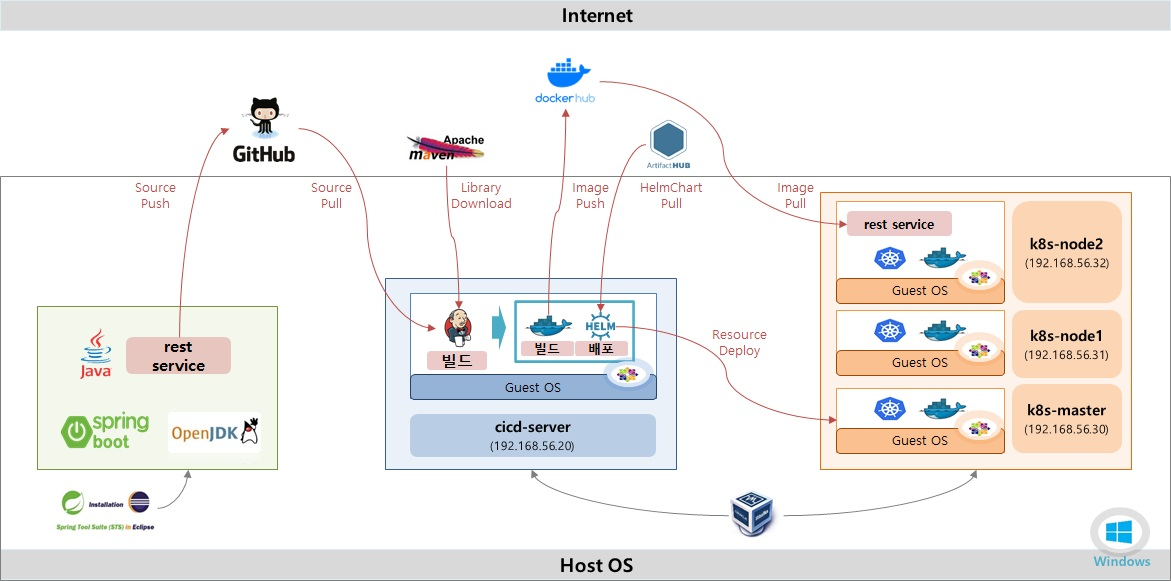
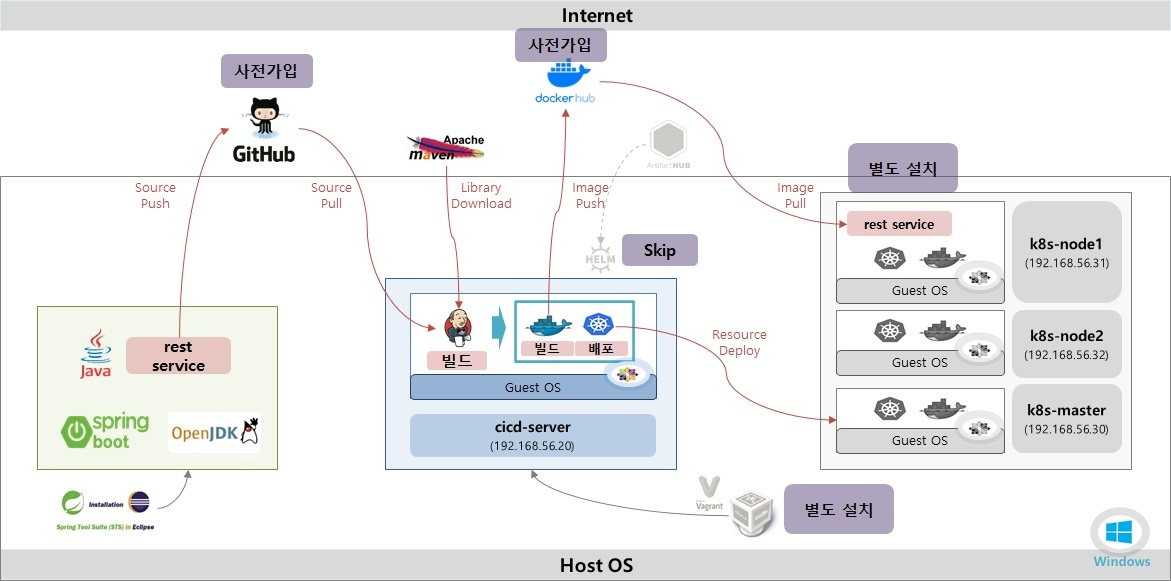
1

diff --git a/helm/11-deploy/developenv/index.html b/helm/11-deploy/developenv/index.html
@@ -30,7 +30,7 @@
 <meta itemprop="description" content="이클립스로 개발환경을 세팅하고 Github로 소스를 Push하는 내용을 다룹니다.
 "><meta itemprop="datePublished" content="2021-08-10T00:00:00+00:00" />
 <meta itemprop="dateModified" content="2021-08-10T00:00:00+00:00" />
-<meta itemprop="wordCount" content="573">
+<meta itemprop="wordCount" content="594">
 <meta itemprop="keywords" content="" /><meta name="twitter:card" content="summary"/>
 <meta name="twitter:title" content="개발 환경 세팅"/>
 <meta name="twitter:description" content="이클립스로 개발환경을 세팅하고 Github로 소스를 Push하는 내용을 다룹니다.
@@ -707,10 +707,9 @@ j=d.createElement(s),dl=l!='dataLayer'?'&l='+l:'';j.async=true;j.src=
     <li><a href="#1-개발환경-세팅-및-소스-푸시">1. 개발환경 세팅 및 소스 푸시</a>
       <ul>
         <li><a href="#1-1-스프링-프로젝트용-이클립스-설치">1-1) 스프링 프로젝트용 이클립스 설치</a></li>
-        <li><a href="#1-2-이클립스-세팅-및-소스-다운">1-2) 이클립스 세팅 및 소스 다운</a></li>
-        <li><a href="#1-3-openjdk-다운로드-및-적용">1-3) OpenJDK 다운로드 및 적용</a></li>
-        <li><a href="#1-4-프로젝트-소스-다운-및-실행">1-4) 프로젝트 소스 다운 및 실행</a></li>
-        <li><a href="#1-5-github에-app-올리기">1-5) Github에 App 올리기</a></li>
+        <li><a href="#1-2-openjdk-다운로드-및-적용">1-2) OpenJDK 다운로드 및 적용</a></li>
+        <li><a href="#1-3-프로젝트-소스-다운-및-실행">1-3) 프로젝트 소스 다운 및 실행</a></li>
+        <li><a href="#1-4-github에-app-올리기">1-4) Github에 App 올리기</a></li>
       </ul>
     </li>
     <li><a href="#2-cicd-server-세팅-및-컨테이너-빌드푸시">2. CI/CD Server 세팅 및 컨테이너 빌드/푸시</a>
@@ -811,6 +810,18 @@ j=d.createElement(s),dl=l!='dataLayer'?'&l='+l:'';j.async=true;j.src=
        alt="Setting Overview for k8s Deploy Concept"
        class="mt-3 mb-3 border border-info rounded" />
 </figure>
+<p>[사전가입] 관련 URL</p>
+<blockquote>
+<p>Github: <a href="https://github.com/">https://github.com/</a> 
+<br/>
+DockerHub: <a href="https://hub.docker.com/">https://hub.docker.com/</a></p>
+</blockquote>
+<p>[별도설치] 관련 URL</p>
+<blockquote>
+<p>Blog: <a href="https://kubetm.github.io/k8s/02-beginner/cluster-install-case6/">https://kubetm.github.io/k8s/02-beginner/cluster-install-case6/</a>
+<br/>
+Youtube: <a href="https://www.youtube.com/watch?v=r7TWWRL59aY">https://www.youtube.com/watch?v=r7TWWRL59aY</a></p>
+</blockquote>
 <br/>
 <br/>
 <h2 id="1-개발환경-세팅-및-소스-푸시">1. 개발환경 세팅 및 소스 푸시</h2>
@@ -832,18 +843,26 @@ j=d.createElement(s),dl=l!='dataLayer'?'&l='+l:'';j.async=true;j.src=
 <blockquote>
 <p><a href="https://download.springsource.com/release/STS4/4.12.0.RELEASE/dist/e4.21/spring-tool-suite-4-4.12.0.RELEASE-e4.21.0-win32.win32.x86_64.self-extracting.jar">https://download.springsource.com/release/STS4/4.12.0.RELEASE/dist/e4.21/spring-tool-suite-4-4.12.0.RELEASE-e4.21.0-win32.win32.x86_64.self-extracting.jar</a></p>
 </blockquote>
-<div class="highlight"><pre style="background-color:#f8f8f8;-moz-tab-size:4;-o-tab-size:4;tab-size:4"><code class="language-cmd" data-lang="cmd">[설치 위치] 
+<div class="highlight"><pre style="background-color:#f8f8f8;-moz-tab-size:4;-o-tab-size:4;tab-size:4"><code class="language-cmd" data-lang="cmd">[기본 폴더 생성] 
+C<span style="color:#000;font-weight:bold">:</span><span style="color:#f57900">\helm-ide</span>
+C<span style="color:#000;font-weight:bold">:</span><span style="color:#f57900">\helm-ide\tools</span>
+C<span style="color:#000;font-weight:bold">:</span><span style="color:#f57900">\helm-ide\workspace</span>
+C<span style="color:#000;font-weight:bold">:</span><span style="color:#f57900">\helm-ide\jdk</span>
+C<span style="color:#000;font-weight:bold">:</span><span style="color:#f57900">\helm-ide\git</span>
+C<span style="color:#000;font-weight:bold">:</span><span style="color:#f57900">\helm-ide\vagrant</span>
+
+[설치 위치] 
 C<span style="color:#000;font-weight:bold">:</span><span style="color:#f57900">\helm-ide\tools</span>
 
 [압축해제 후 폴더]
 C<span style="color:#000;font-weight:bold">:</span><span style="color:#f57900">\helm-ide\tools\sts-4.12.0.RELEASE</span>
-</code></pre></div><h3 id="1-2-이클립스-세팅-및-소스-다운">1-2) 이클립스 세팅 및 소스 다운</h3>
+</code></pre></div><p>이클립스 세팅 및 소스 다운</p>
 <div class="highlight"><pre style="background-color:#f8f8f8;-moz-tab-size:4;-o-tab-size:4;tab-size:4"><code class="language-cmd" data-lang="cmd">[workspace 위치 지정]
 C<span style="color:#000;font-weight:bold">:</span><span style="color:#f57900">\helm-ide\workspace</span>
 
 [Eclipse 인코딩 변경]
 Preferences <span style="color:#000;font-weight:bold">&gt;</span> General <span style="color:#000;font-weight:bold">&gt;</span> Workspace <span style="color:#000;font-weight:bold">&gt;</span> Text file encoding <span style="color:#000;font-weight:bold">&gt;</span> UTF-8
-</code></pre></div><h3 id="1-3-openjdk-다운로드-및-적용">1-3) OpenJDK 다운로드 및 적용</h3>
+</code></pre></div><h3 id="1-2-openjdk-다운로드-및-적용">1-2) OpenJDK 다운로드 및 적용</h3>
 <p>다운로드 사이트 URL</p>
 <blockquote>
 <p><a href="https://jdk.java.net/archive/">https://jdk.java.net/archive/</a></p>
@@ -860,7 +879,7 @@ C<span style="color:#000;font-weight:bold">:</span><span style="color:#f57900">\
 
 [Eclipse OpenJDK 지정]
 Preferences <span style="color:#000;font-weight:bold">&gt;</span> Java <span style="color:#000;font-weight:bold">&gt;</span> Installed JREs <span style="color:#000;font-weight:bold">&gt;</span> Add <span style="color:#000;font-weight:bold">&gt;</span> jdk-11 폴더 선택 후 Finish
-</code></pre></div><h3 id="1-4-프로젝트-소스-다운-및-실행">1-4) 프로젝트 소스 다운 및 실행</h3>
+</code></pre></div><h3 id="1-3-프로젝트-소스-다운-및-실행">1-3) 프로젝트 소스 다운 및 실행</h3>
 <p>프로젝트 소스 다운로드 URL</p>
 <blockquote>
 <p><a href="https://github.com/spring-guides/gs-rest-service">https://github.com/spring-guides/gs-rest-service</a></p>
@@ -872,7 +891,7 @@ Code <span style="color:#000;font-weight:bold">&gt;</span> Download ZIP 클릭
 C<span style="color:#000;font-weight:bold">:</span><span style="color:#f57900">\helm-ide\workspace</span>
 
 [Eclipse 프로젝트 Import]
-Import projects <span style="color:#000;font-weight:bold">&gt;</span> General <span style="color:#000;font-weight:bold">&gt;</span> Projects from Folder or Archive <span style="color:#000;font-weight:bold">&gt;</span> Directory..
+New <span style="color:#000;font-weight:bold">&gt;</span> Import Projects from File System or Archive <span style="color:#000;font-weight:bold">&gt;</span> Directory..
 <span style="color:#000;font-weight:bold">&gt;</span> C:\helm-ide\workspace\gs-rest-service-main\complate 폴더 선택
 
 [rest-service App 실행]
@@ -880,7 +899,7 @@ Boot Dashboard <span style="color:#000;font-weight:bold">&gt;</span> local <span
 
 [API 확인]
 http://localhost:8080/greeting
-</code></pre></div><h3 id="1-5-github에-app-올리기">1-5) Github에 App 올리기</h3>
+</code></pre></div><h3 id="1-4-github에-app-올리기">1-4) Github에 App 올리기</h3>
 <ul>
 <li>사전에 Github에 가입되어 있어야 함</li>
 </ul>

diff --git a/k8s/06-intermediate-pod/probe/index.html b/k8s/06-intermediate-pod/probe/index.html
@@ -1542,7 +1542,7 @@ j=d.createElement(s),dl=l!='dataLayer'?'&l='+l:'';j.async=true;j.src=
         <li><a href="#1-3-pod">1-3) Pod</a></li>
       </ul>
     </li>
-    <li><a href="#2-livenessprove">2. LivenessProve</a>
+    <li><a href="#2-livenessprobe">2. LivenessProbe</a>
       <ul>
         <li><a href="#2-1-service">2-1) Service</a></li>
         <li><a href="#2-2-pod">2-2) Pod</a></li>
@@ -1717,7 +1717,7 @@ j=d.createElement(s),dl=l!='dataLayer'?'&l='+l:'';j.async=true;j.src=
 kubectl describe pod pod-readiness-exec1 <span style="color:#000;font-weight:bold">|</span> grep -A5 Conditions
 kubectl describe endpoints svc-readiness
 touch ready.txt
-</code></pre></div><h2 id="2-livenessprove">2. LivenessProve</h2>
+</code></pre></div><h2 id="2-livenessprobe">2. LivenessProbe</h2>
 <hr>
 <figure>
   <img src="/img/practice/intermediate/Pod Probe with LivenessProbe for Kubernetes.jpg"
